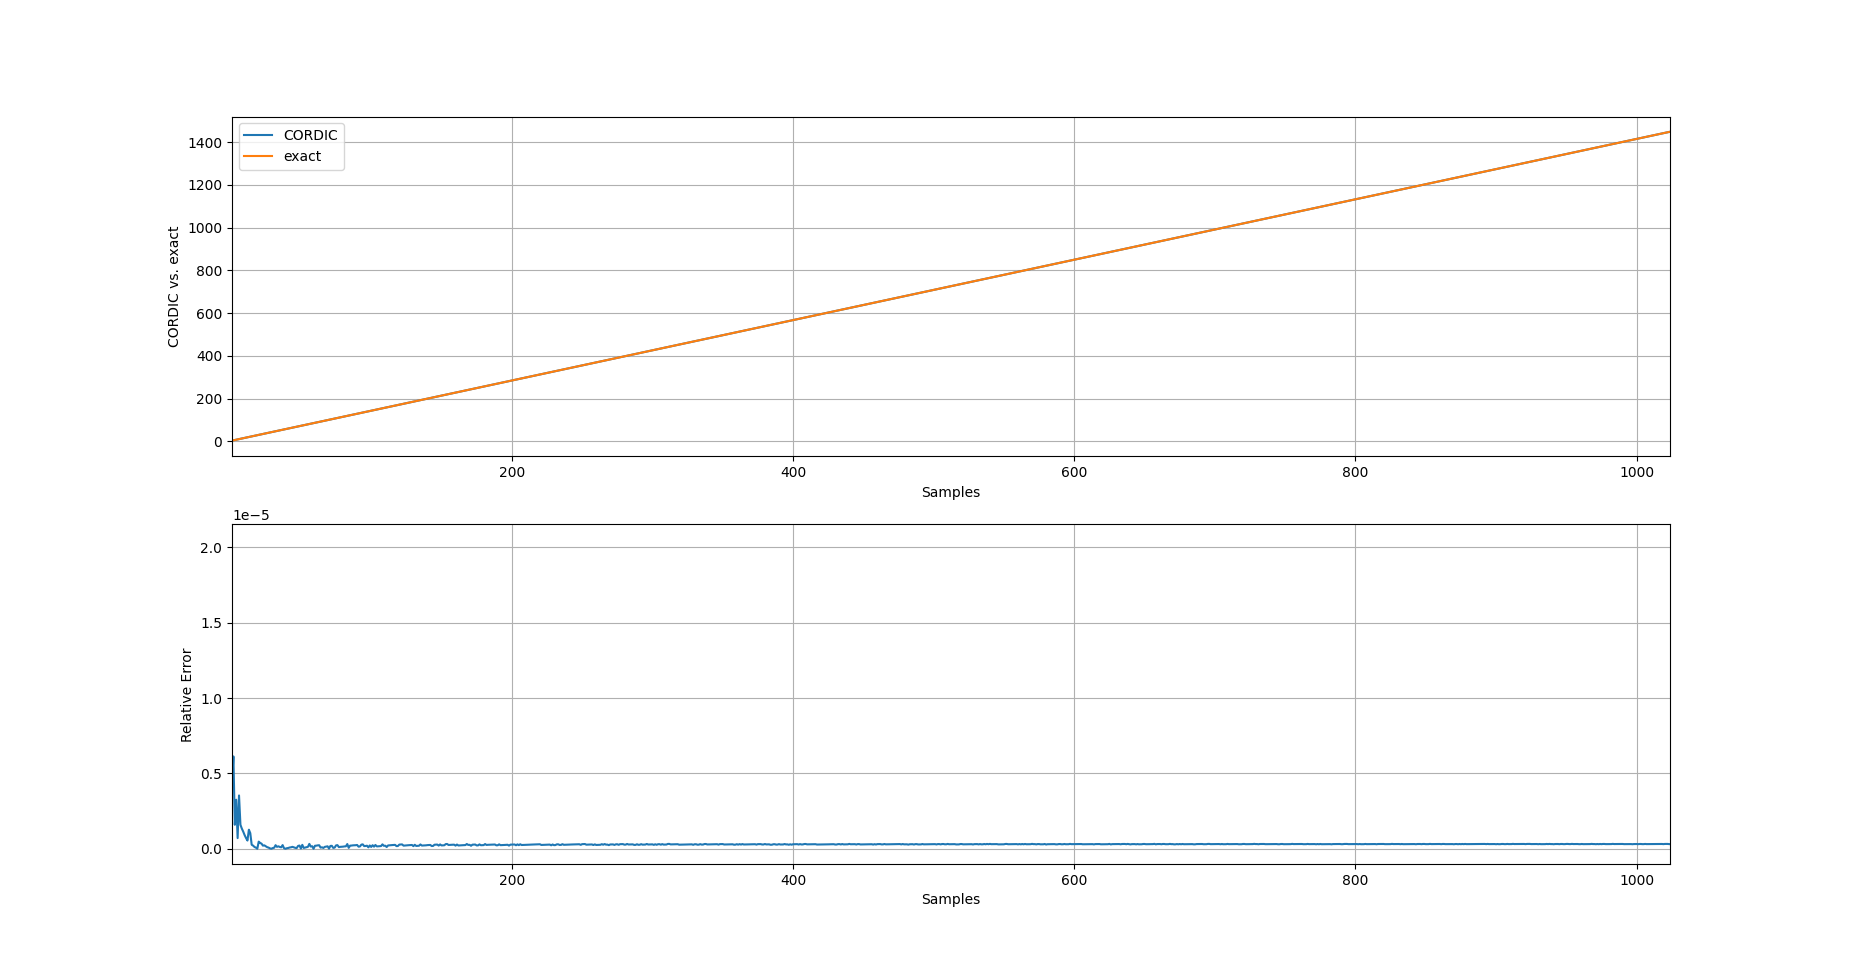
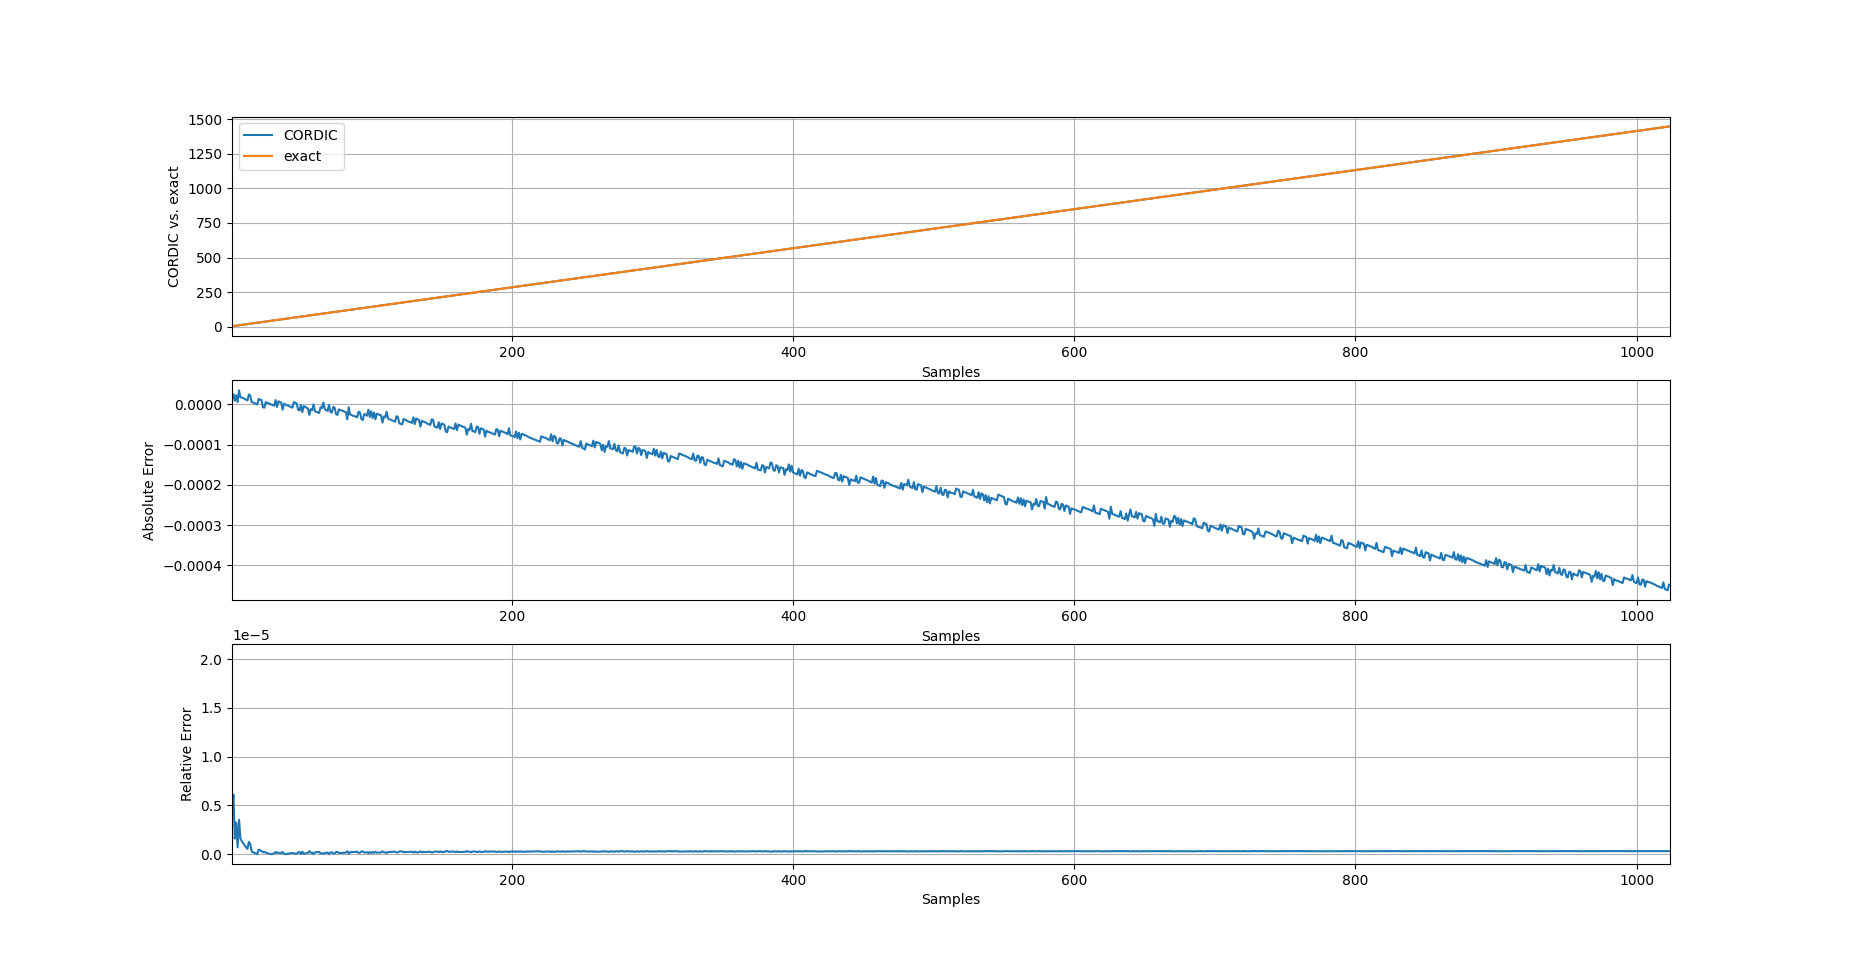
Add absolute error to the plot
Show the absolute error together with the relative error.

diff --git a/analyze_error.py b/analyze_error.py
@@ -8,8 +8,8 @@ exact = csv[:,1]
 
 assert len(cordic) == len(exact)
 
-error = np.abs(np.subtract(exact, cordic))
-relative_error = error / exact
+error = np.subtract(exact, cordic)
+relative_error = np.abs(error) / exact
 print("MSE = ", np.square(error).mean())
 
 try:
@@ -18,7 +18,7 @@ try:
   dt = 1
   t = np.arange(0, len(cordic), dt)
 
-  fig, axs = plt.subplots(2, 1)
+  fig, axs = plt.subplots(3, 1)
   axs[0].plot(t, cordic, label='CORDIC')
   axs[0].plot(t, exact, label='exact')
   axs[0].set_xlim(1, len(cordic))
@@ -27,11 +27,17 @@ try:
   axs[0].grid(True)
   axs[0].legend()
 
-  axs[1].plot(t, relative_error)
-  axs[1].set_xlim(1, len(relative_error))
+  axs[1].plot(t, error)
+  axs[1].set_xlim(1, len(error))
   axs[1].set_xlabel('Samples')
-  axs[1].set_ylabel('Relative Error')
+  axs[1].set_ylabel('Absolute Error')
   axs[1].grid(True)
+
+  axs[2].plot(t, relative_error)
+  axs[2].set_xlim(1, len(relative_error))
+  axs[2].set_xlabel('Samples')
+  axs[2].set_ylabel('Relative Error')
+  axs[2].grid(True)
 
   plt.show()
 except Exception:
